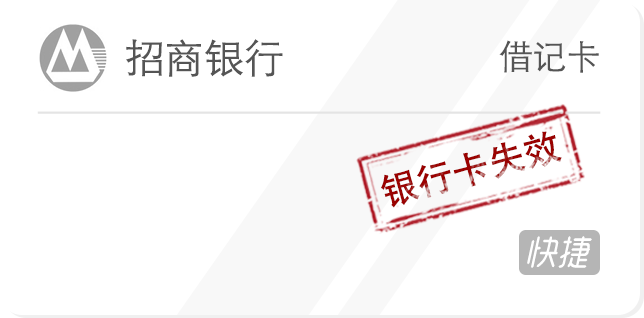
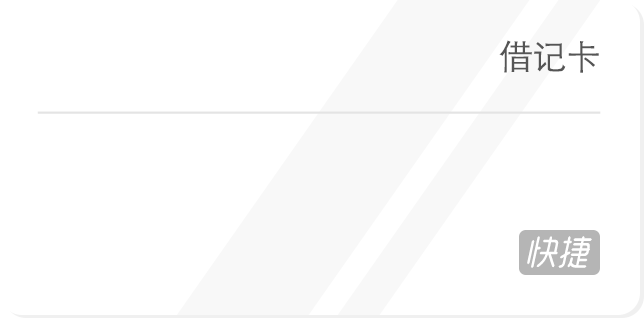
绑定银行卡 调用假接口

Changed region(s): [[0.559, 0.3113, 0.9317, 0.7358], [0.0621, 0.0566, 0.4348, 0.3113]]

diff --git a/apps/main/bind-bank-card/react/index.jsx b/apps/main/bind-bank-card/react/index.jsx
@@ -15,6 +15,7 @@ const Cover = React.createClass({
 })
 ReactDOM.render(<Cover  />,document.getElementById('layer'));
 
+//弹层
 const Bomb = React.createClass({
 	render : function(){
 		return (
@@ -45,24 +46,49 @@ ReactDOM.render(<Invalid />,document.getElementById('invad'));
 
 const Attract = React.createClass({
 		getInitialState : function(){
-			return {name : "",ID : ""};
+			return {
+				logo :"",
+				bankName :"",
+				name : "",
+				ID : "",
+				validate :""
+			};
 		},
 		
 		componentDidMount : function(){
-			$.get("","",function(data){
-				this.setState({
-					name: '',
-				})
-			}.bind(this));
+			var _this = this;
+			$FW.Ajax({
+				url:"http://10.10.100.112/mockjs/12/api/v1/bind/card.json?",
+				success : function(data){
+					_this.setState({
+						logo:data.bankLogo,
+						bankName:data.bankName,
+						name: data.username,
+						ID: data.cardNumber,
+						validate: data.validate
+					})
+				}
+				
+			});
 		},
 	
 		render : function(){
+			var logo=this.state.logo;
+			var bankName=this.state.bankName;
 			var name=this.state.name;
-			var ID=this.state.id;
+			var ID=this.state.ID;
+			var validate=this.state.validate;
 			return (
 				<div className="bank">
-					<div className="name">{name}</div>
-					<div className="num">{ID}</div>
+					<div className="ash clearfix">
+						<div className="img"><img src="{logo}" /></div>
+						<div className="bankname">{bankName}</div>
+					</div>
+					<div className="belon">
+						<div className="name">{name}</div>
+						<div className="num">{ID}</div>
+						{validate ? <div className="card-e" handleEvent={this.handleEvent}></div> : null}
+					</div>
 				</div>
 			)
 		}
@@ -110,73 +136,4 @@ const Warm = React.createClass({
 	}
 })
 ReactDOM.render(<Warm />,document.getElementById('warm'))
-
-
-
-
-
-
-
-
-
-
-
-
-
-
-
-
-
-
-
-
-
-
-
-
-
-
-
-
-
-
-
-
-
-
-
-
-
-
-
-
-
-
-
-
-
-
-
-
-
-
-
-
-
-
-
-
-
-
-
-
-
-
-
-
-
-
-
-
-
 

diff --git a/apps/main/bind-bank-card/less/index.less b/apps/main/bind-bank-card/less/index.less
@@ -114,10 +114,26 @@ body,html{
     margin-top: 168px;
 }
 
+.ash{
+    height: 111px;
+    line-height: 111px;
+}
+
+.img{
+    float: left;
+    margin-left: 39px;
+    margin-right: 19px;
+}
+
+.bankname{
+    font-size: 40px;
+    color: #555555;
+}
+
 .name{
     font-size: 34px;
     color: #555555;
-    padding-top: 194px;
+    padding-top: 76px;
     text-indent: 40px;
 }
 
@@ -126,6 +142,21 @@ body,html{
    color: #555555;
    text-indent: 40px; 
 }
+
+.card-e{
+    width: 229px;
+    height: 130px;
+    background: url(../images/card-e.png) no-repeat;
+    float: right;
+    margin-top: -186px;
+    margin-right: 60px;
+    
+}
+
+
+
+
+
 
 .port{
     width: 643px;
@@ -197,67 +228,4 @@ body,html{
     line-height: 43px;
     display: inline-block;
 }
-
-
-
-
-
-
-
-
-
-
-
-
-
-
-
-
-
-
-
-
-
-
-
-
-
-
-
-
-
-
-
-
-
-
-
-
-
-
-
-
-
-
-
-
-
-
-
-
-
-
-
-
-
-
-
-
-
-
-
-
-
-
-
 

diff --git a/apps/main/bind-bank-card/index.html b/apps/main/bind-bank-card/index.html
@@ -1,21 +1,11 @@
 {% extends '../../../lib/templates/main_base.swig.html' %}
 
 {% block viewport %}
-<meta name="viewport" content="target-desitydpi=device-dpi,width=720, user-scalable=no" />
+<meta name="viewport" content="width=720, user-scalable=no" />
 <meta name="renderer" content="webkit">
 {% endblock %}
 
 {% block title %}绑定银行卡锁定状态{% endblock %}
-
-
-{% block js %}
-<script src="javascripts/jquery-1.8.2.min.js"></script>
-<script src="javascripts/index.js"></script>
-<script type="text/javascript">
-
-</script>
-
-{% endblock %}
 
 
 {% block content %}
